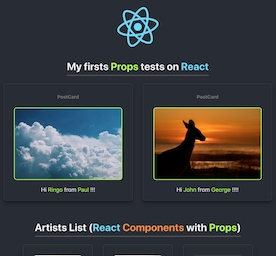
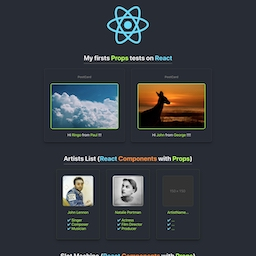
dark header design

diff --git a/src/App.vue b/src/App.vue
@@ -1,35 +1,36 @@
 <template>
 <div id="app">
-    <div class="flex bg-gray-100">
-        <div class="max-w-md px-8 py-4 mx-auto sm:py-12 sm:max-w-xl lg:max-w-full lg:w-1/2 lg:py-24 lg:px-12">
-            <div class="xl:max-w-lg xl:ml-auto">
-                <img class="object-cover object-center w-full h-48 mt-6 rounded-lg shadow-xl sm:mt-8 sm:h-72 sm:object-cover lg:hidden" src="img/web_design_2020_1280p.jpg" alt="Digital Web Design" />
-                <h2 class="mt-6 text-2xl font-bold leading-tight text-gray-900 sm:text-4xl sm:mt-8 lg:text-3xl">
-                    Votre page Web sur mesure.
-                    <br class="sm:hidden lg:inline" />
+    <div class="flex bg-dark">
+        <div class="mx-auto max-w-md px-8 py-4 sm:py-8 sm:max-w-xl lg:max-w-6xl lg:w-1/2 lg:py-0 lg:px-12 xxl:h-120">
+            <div class="xl:max-w-lg xl:ml-auto xl:mt-18 lg:max-w-120">
+                <img class="object-full object-center w-full mt-6 rounded-lg shadow-xl sm:mt-8 sm:h-84 lg:hidden" src="img/web_design_2020_1280p.jpg" alt="Digital Web Design" />
+                <h2 class="mt-8 text-2xl font-bold leading-tight text-pkgray-300 sm:text-4xl lg:text-2xl xl:mt-20">
+                    Votre Site Web sur mesure.
+                    <br class="sm:hidden xxl:inline" />
                     <span class="text-purple-500">Profitez-en dès maintenant.</span>
                 </h2>
-                <p class="mt-2 text-gray-600 sm:mt-4 sm:text-xl">
-                    Vous rêvez d'un site web moderne, design, rapide et accessible sur laptops et mobiles. Profitez de notre savoir faire. Nous sommes le lien entre vos idées et leur mise en forme.
+                <p class="mt-2 md:mr-2 lg:mr-5 text-pkgray-400 sm:mt-4 sm:text-xl lg:text-xl xl:text-xl xl:mt-6 xl:mr-16">
+                    Vous rêvez d'un site web moderne, design et accessible pour tous vos clients. Nous sommes le lien entre vos idées et leur mise en forme.
+
                 </p>
-                <div class="mt-4 sm:mt-6">
-                    <a href="mailto:contact@maboite.space" class="shadow-lg btn btn-purple sm:text-base">Nous contacter</a>
-                    <a href="#" class="ml-2 btn btn-gray sm:text-base">En savoir +</a>
+                <div class="my-10 sm:mt-6 sm:text-base xl:mt-10 xl:text-sm">
+                    <a href="mailto:contact@maboite.space" class="shadow-lg btn btn-purple ">Nous contacter</a>
+                    <a href="#portfolio" class="ml-3 py-2 sm:ml-4 btn btn-pkgray">En savoir +</a>
                 </div>
             </div>
         </div>
-        <div class="hidden lg:block lg:w-1/2 lg:relative">
-            <img class="absolute inset-0 object-contain object-center w-full h-full" src="img/web_design_2020_1280p.jpg" alt="Digital Web Design" />
+        <div class="hidden overflow-hidden lg:block lg:w-3/5 lg:relative xl:w-full xxl:w-3/5">
+            <img class="flex-1 absolute inset-0 object-right xl:max-w-3xl mr-0" src="img/web_design_2020_1280p.jpg" alt="Digital Web Design" />
         </div>
     </div>
     <div>
-        <div class="max-w-md px-8 py-8 mx-auto sm:max-w-xl lg:max-w-6xl lg:px-12">
-            <h2 class="text-xl text-gray-900">Portfolio</h2>
-            <p class="text-gray-600">
-                Une selection de différents types de sites web en cours de développement.
+        <div class="max-w-md px-8 py-8 mx-auto sm:max-w-2xl lg:max-w-6xl lg:px-12">
+            <h2 id="portfolio" class="text-2xl text-gray-900">Portfolio</h2>
+            <p class="text-xl text-gray-600">
+                Une selection de différents types de projets en cours de développement.
             </p>
-            <div class="flex flex-wrap -mx-4">
-                <div class="w-full px-4 mt-6 lg:w-1/2 xl:w-1/3" v-for="contentCard in dataCard" v-bind:key="contentCard">
+            <div class="flex flex-wrap">
+                <div class="mx-auto min-w-350 w-500 px-4 mt-10" v-for="contentCard in dataCard" v-bind:key="contentCard">
                     <ContentCard :contentCard="contentCard" />
                 </div>
             </div>
@@ -49,11 +50,18 @@ export default {
     data() {
         return {
             dataCard: [{
-                    dataName: "service photo pro",
+                    dataName: "service photo",
                     dataCnt1: "yetistudio.fr",
                     dataCnt2: "https://www.yetistudio.fr/",
                     imageUrl: "img/yetistudio-fr.jpg",
                     imageAlt: "yetistudio.fr",
+                },
+                {
+                    dataName: "design props",
+                    dataCnt1: "react props tests",
+                    dataCnt2: "https://my-props-test.vercel.app/",
+                    imageUrl: "img/props.jpg",
+                    imageAlt: "react props tests",
                 },
                 {
                     dataName: "ecommerce",
@@ -70,22 +78,15 @@ export default {
                     imageAlt: "tindog",
                 },
                 {
-                    dataName: "corporate template",
-                    dataCnt1: "your business company",
+                    dataName: "corp. template",
+                    dataCnt1: "business corp.",
                     dataCnt2: "https://ipopop.github.io/Business-Site-in-Jekill-and-BootStrap-4/",
                     imageUrl: "img/corp.jpg",
-                    imageAlt: "your business company",
+                    imageAlt: "business company template",
                 },
                 {
-                    dataName: "design components",
-                    dataCnt1: "react props tests",
-                    dataCnt2: "https://my-props-test.vercel.app/",
-                    imageUrl: "img/props.jpg",
-                    imageAlt: "react props tests",
-                },
-                {
-                    dataName: "book collection",
-                    dataCnt1: "book collection",
+                    dataName: "collection",
+                    dataCnt1: "book & authors",
                     dataCnt2: "https://fullstack-web-dev-mybrary.herokuapp.com/",
                     imageUrl: "img/mybrary.jpg",
                     imageAlt: "book collection",

diff --git a/tailwind.config.js b/tailwind.config.js
@@ -6,11 +6,48 @@ module.exports = {
   ],
   theme: {
     extend: {
+      screens: {
+        xxl: '1920px',
+      },
       colors: {
         'brand-blue': '#1992d4',
+        'dark': '#343434',
+        'mid': '#676767',
+        'palepink': '#FFEFFF',
+        'xlight': '#ffe6d2',
+        pkgray: {
+          100: 'hsl(300, 40%, 98%)',
+          200: 'hsl(300, 38%, 95%)',
+          300: 'hsl(300, 32%, 91%)',
+          400: 'hsl(300, 25%, 84%)',
+          500: 'hsl(300, 20%, 69%)',
+          600: 'hsl(300, 15%, 52%)',
+          700: 'hsl(300, 17%, 35%)',
+          800: 'hsl(300, 23%, 23%)',
+          900: 'hsl(300, 26%, 14%)',
+        },
+      },
+      fontSize: {
+        '8xl': '5.5rem',
+        '10xl': '8rem',
       },
       spacing: {
+        '18': '4.5rem',
+        '20': '5rem',
+        '36': '9rem',
         '72': '18rem',
+        '84': '21rem',
+        '96': '24rem',
+        '112': '28rem',
+        '120': '30rem',
+        '128': '32rem',
+        '160': '40rem',
+      },
+      minWidth: {
+        '350': '350px',
+        '375': '375px',
+        '450': '450px',
+        '500': '500px',
       },
     },
   },

diff --git a/src/components/ContentCard.vue b/src/components/ContentCard.vue
@@ -1,11 +1,11 @@
 <template>
 <div class="flex items-center overflow-hidden bg-white rounded-lg shadow-lg">
-    <img class="flex-shrink-0 w-32 h-32" :src="contentCard.imageUrl" :alt="contentCard.imageAlt">
+    <img class="object-auto object-center flex-shrink-0 w-36 h-36" :src="contentCard.imageUrl" :alt="contentCard.imageAlt">
     <div class="px-6 py-4">
         <h3 class="text-lg font-semibold text-gray-800">{{ contentCard.dataName }}</h3>
         <p class="text-gray-600">{{ contentCard.dataCnt1 }}</p>
         <div class="mt-4">
-            <a :href="contentCard.dataCnt2" class="shadow-lg btn sm:text-base py-2" target="_blank"> DEMO </a>
+            <a :href="contentCard.dataCnt2" class="shadow-lg btn btn-pink sm:text-base py-2" target="_blank"> DEMO </a>
         </div>
     </div>
 </div>

diff --git a/src/assets/tailwind.css b/src/assets/tailwind.css
@@ -21,6 +21,18 @@
         @apply bg-purple-600;
     }
     
+    .btn-pink {
+        @apply text-white uppercase bg-pink-400;
+    }
+
+    .btn-pink:hover {
+        @apply bg-pink-300;
+    }
+    
+    .btn-pink:active {
+        @apply bg-pink-500;
+    }
+    
     .btn-gray {
         @apply text-gray-600 uppercase bg-gray-300;
     }
@@ -32,11 +44,25 @@
     .btn-gray:active {
         @apply bg-gray-400;
     }
+    
+    .btn-pkgray {
+        @apply uppercase text-pkgray-600 bg-pkgray-300;
+    }
+
+    .btn-pkgray:hover {
+        @apply bg-pkgray-200;
+    }
+    
+    .btn-pkgray:active {
+        @apply bg-pkgray-400;
+    }
 
     /* @screen sm {
         .btn {
             @apply text-base;
         }
     } */
+
+    html{scroll-behavior:smooth}
 
 @tailwind utilities;

diff --git a/public/index.html b/public/index.html
@@ -8,7 +8,7 @@
   <link rel="icon" href="<%= BASE_URL %>favicon.ico">
   <title>MaBoite - Portfolio</title>
 </head>
-<body class="bg-gray-200">
+<body class="bg-pkgray-100">
   <noscript>
     <strong>We're sorry but 'maboite-space' doesn't work properly without JavaScript enabled. Please enable it to continue.</strong>
   </noscript>
